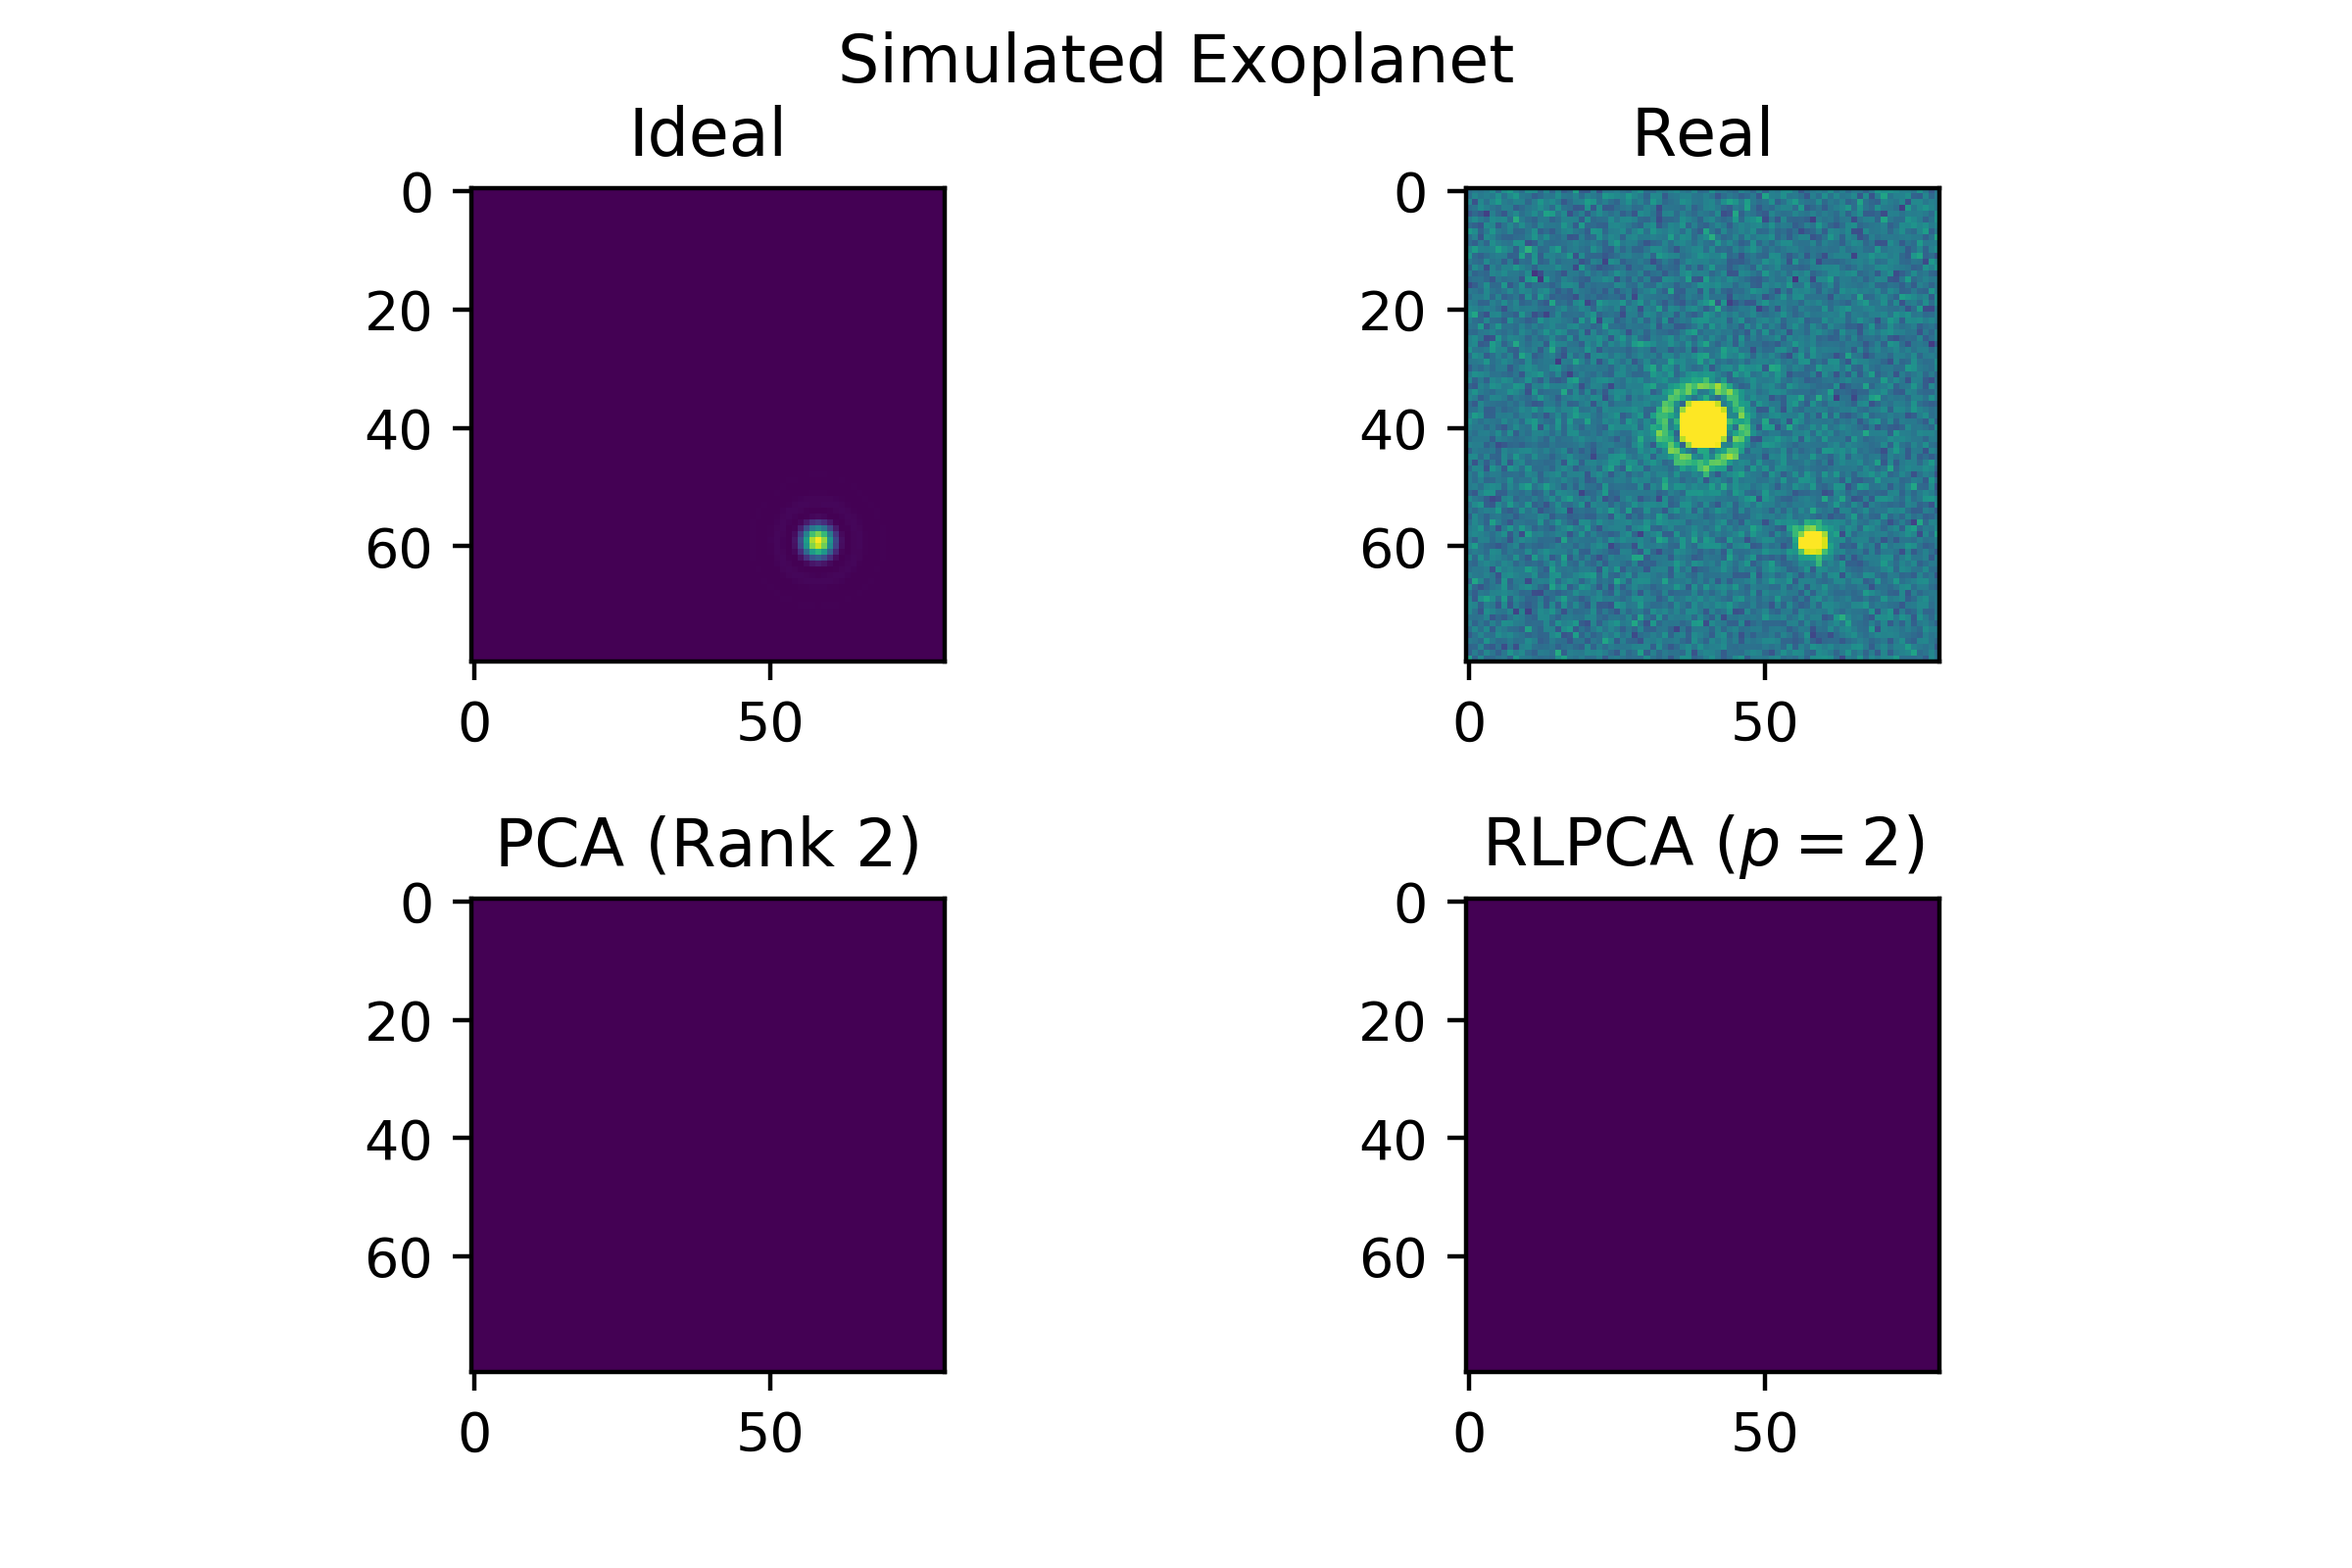
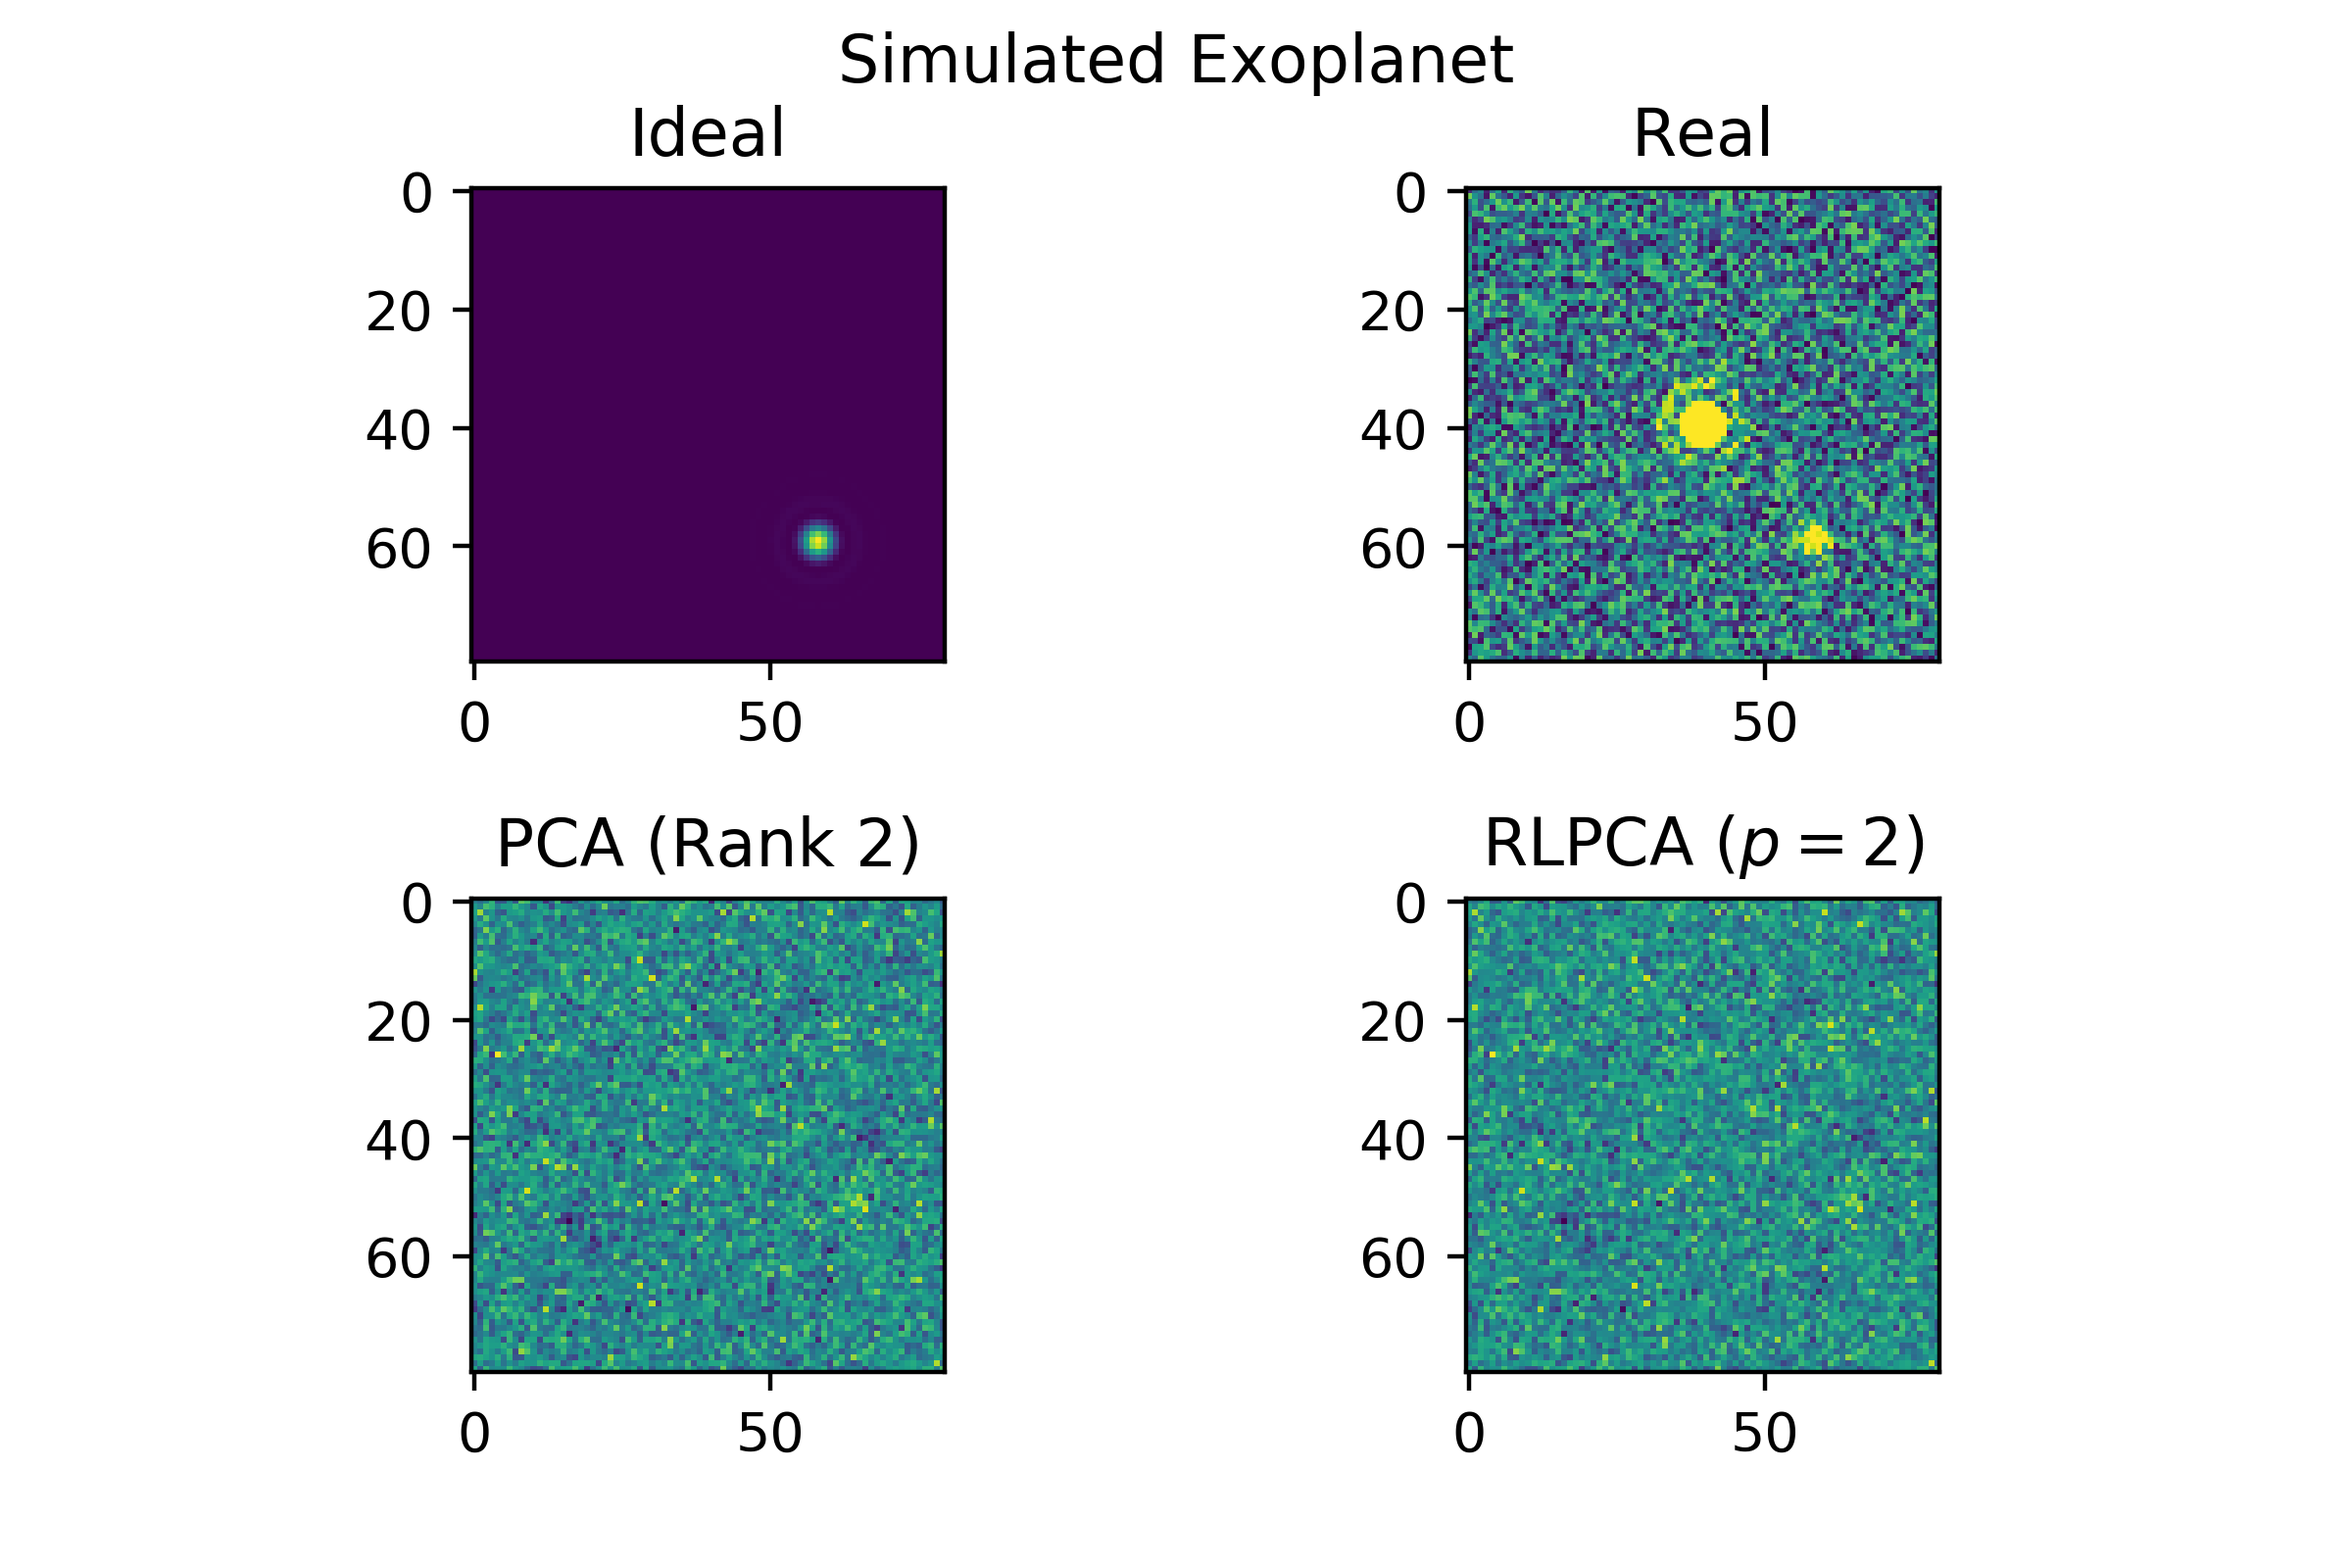
implemented planet rotation in simulated data

Changed region(s): [[0.625, 0.0938, 0.8438, 0.4375], [0.625, 0.5625, 0.8438, 0.875], [0.1875, 0.5625, 0.4062, 0.875]]

diff --git a/reflesspca.py b/reflesspca.py
@@ -10,6 +10,7 @@ Created on Fri Mar  1 13:43:21 2019
 
 import numpy as np
 import scipy as sp
+from scipy import ndimage
 import matplotlib.pyplot as plt
 import random as rd
 
@@ -21,9 +22,10 @@ def airy(x, y, x_offset, y_offset, i0):
     r = np.sqrt((x+x_offset)**2+(y+y_offset)**2)
     return i0*(2*sp.special.j1(r)/r)**2
 
-frames = 10 #corresponds to t
+frames = 25 #corresponds to t
 boundary = 30 #resolution
 steps = 80 #corresponds to n
+max_ang = 270
 
 cube_ideal = []
 cube_real = []
@@ -33,6 +35,9 @@ for i in range(frames):
     star = []
     planet= []
     noise = []
+    #current_ang = 10
+    current_ang = np.linspace(0, max_ang, frames)[i]
+    #print(current_ang)
     
     for x in np.linspace(boundary, -boundary, steps):
         temp = []
@@ -52,14 +57,15 @@ for i in range(frames):
             temp.append(rd.uniform(0, 0.8))
         noise.append(temp)
     
-    frame_ideal = np.asarray(planet)    
-    frame_real = np.asarray(star) + np.asarray(planet) + np.asarray(noise)
-
+    frame_ideal = ndimage.rotate(np.array(planet), current_ang, reshape = False)
+    frame_real = np.array(star) + ndimage.rotate(np.array(planet), current_ang, reshape = False) + np.array(noise)
+    #frame_real = ndimage.rotate(frame_real, current_ang, reshape = False)
+    
     cube_ideal.append(frame_ideal)
     cube_real.append(frame_real)    
     
-cube_ideal = np.asarray(cube_ideal)
-cube_real = np.asarray(cube_real)
+cube_ideal = np.array(cube_ideal)
+cube_real = np.array(cube_real)
 
 
 
@@ -100,7 +106,7 @@ def RLPCA(Y, p):
     def S_r(rank):
         if rank == 0:
             return Y - LRA(Y, 1)
-        return Y - LRA(Y - S_r(rank-1), rank)
+        return Y - LRA(Y - S_r(rank-1), rank) #implement rotation
     return S_r(p)
 
 def RLPCA2(Y, p): #alternative calculation, yields different result ?!?!?
@@ -137,14 +143,14 @@ plt.imshow(cube_ideal[0], vmin=0, vmax=1)
 
 plt.subplot(2, 2, 2)
 plt.title("Real")
-plt.imshow(np.mean(cube_real, axis = 0), vmin=0, vmax=1)
+plt.imshow(cube_real[0], vmin=0, vmax=1)
 
 plt.subplot(2, 2, 3)
 plt.title("PCA (Rank 2)")
-plt.imshow(mat2frame(S_PCA), vmin=0, vmax=1)
+plt.imshow(mat2frame(S_PCA))
 
 plt.subplot(2, 2, 4)
 plt.title("RLPCA ($p=2$)")
-plt.imshow(processed_frame, vmin=0, vmax=1)
+plt.imshow(processed_frame)
 
 plt.savefig("figure.png", dpi=400)
